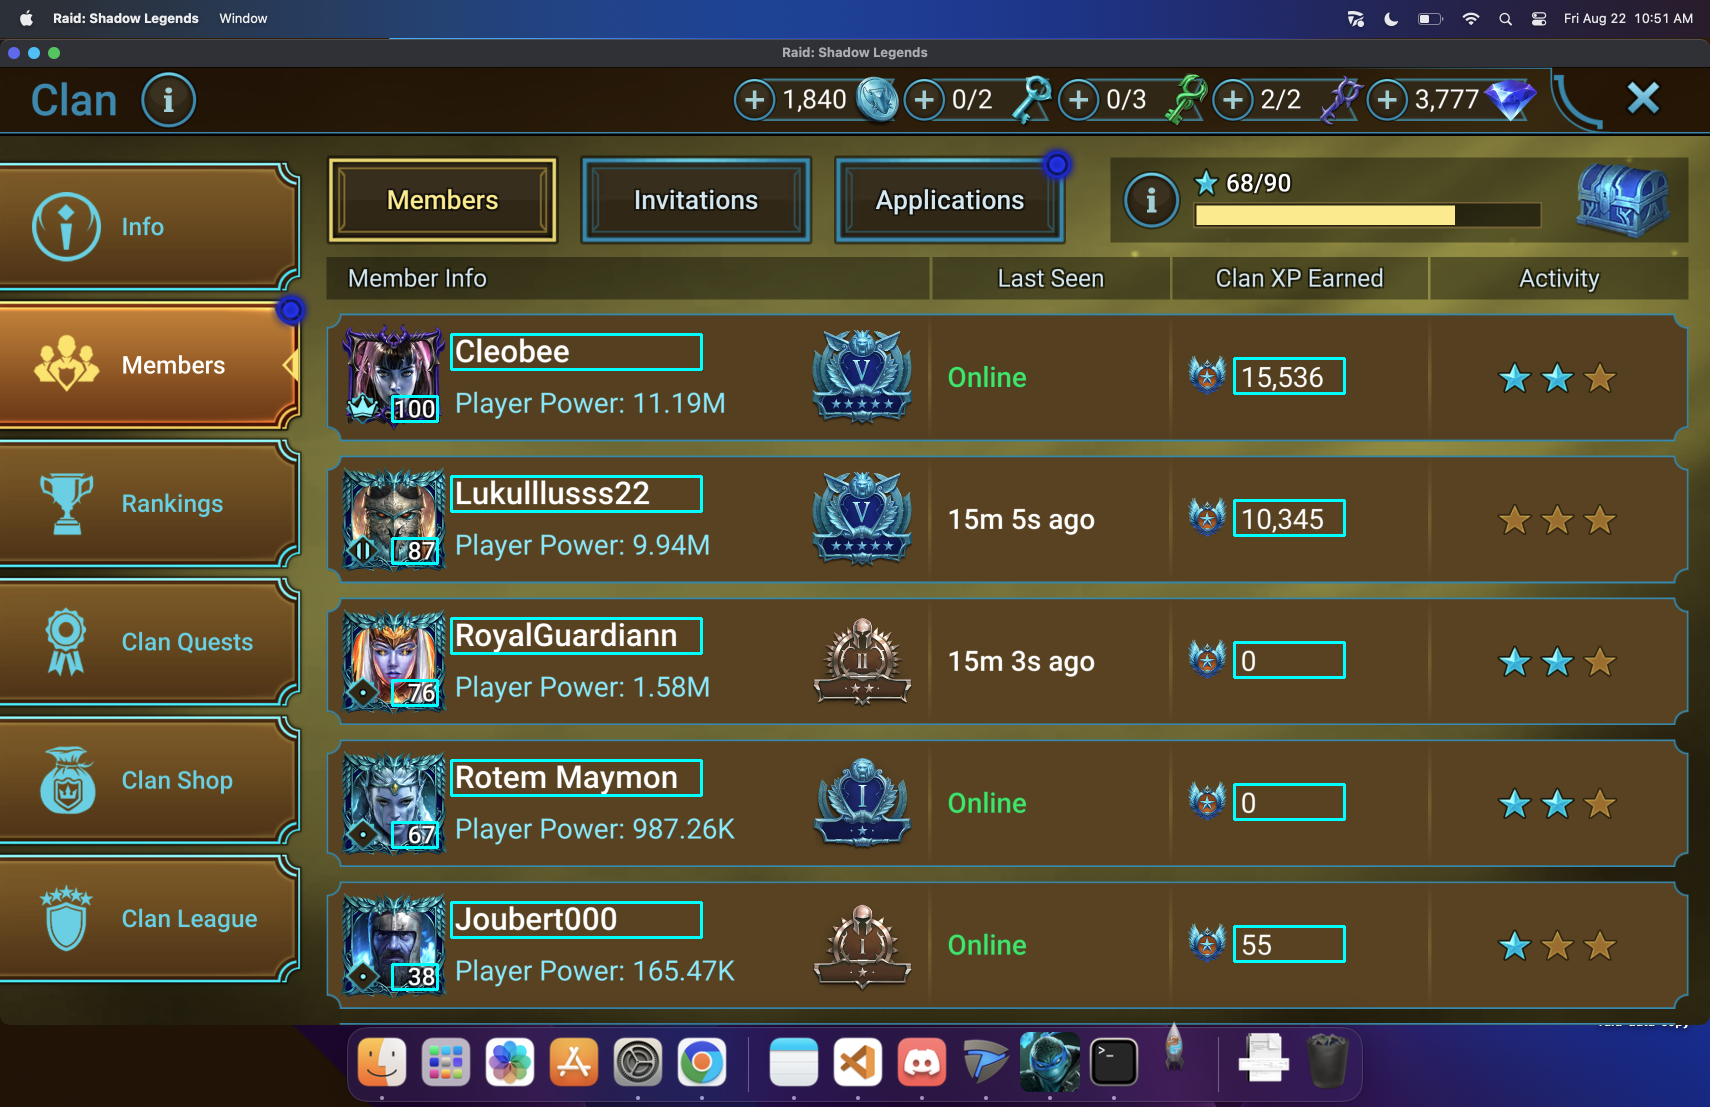
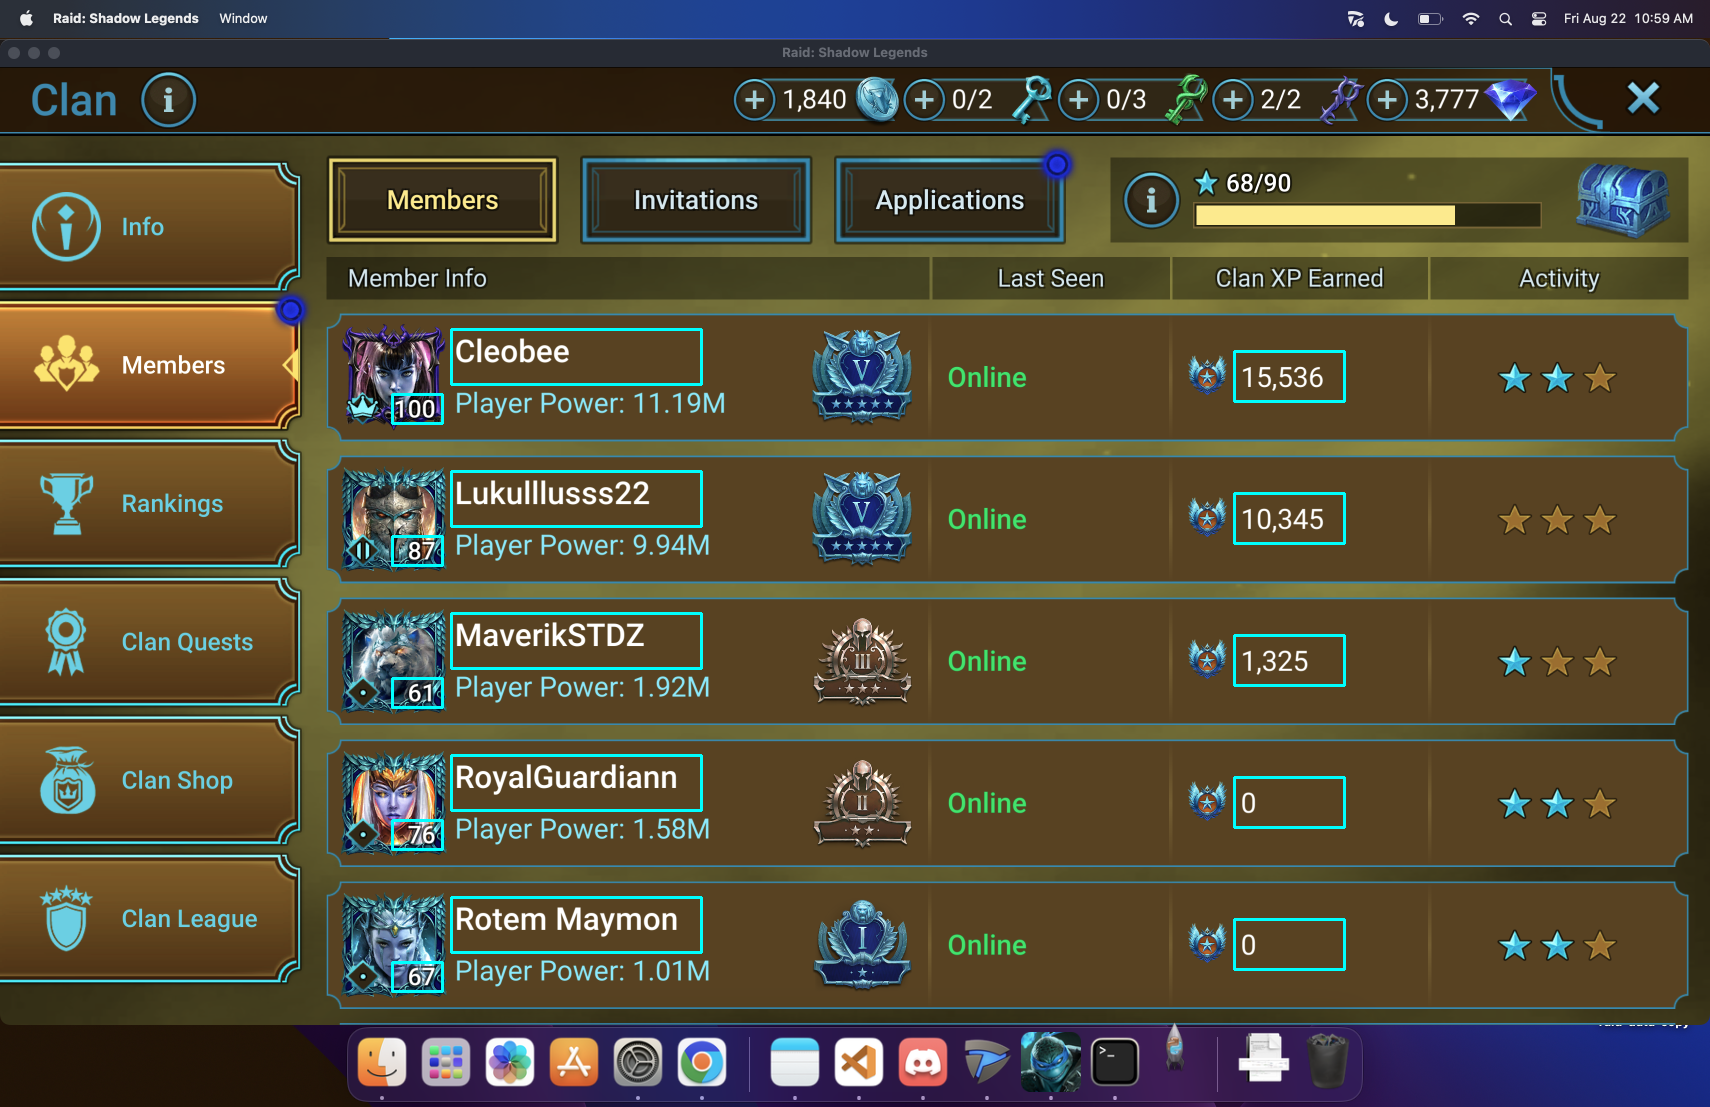
if level is greater than 100, remove the first digit

diff --git a/member_bot.py b/member_bot.py
@@ -47,6 +47,15 @@ def read_single_line_item(upper_left, debug_img_path=None):
             img.save(f"debug/level_field_{y1}_{x1}.png")
             custom_config = r'--oem 3 --psm 8 -c tessedit_char_whitelist=0123456789'
             text = pytesseract.image_to_string(img, config=custom_config).strip()
+
+            # After OCR:
+            try:
+                level_int = int(text)
+                if level_int > 100:
+                    level_int = level_int % 100
+                text = str(level_int)
+            except ValueError:
+                pass  # If OCR fails, keep original text
         else:
             img = Image.fromarray(crop)
             text = pytesseract.image_to_string(img).strip()
@@ -79,9 +88,9 @@ def read_all_line_items(start_upper_left, num_items=5, item_height=141, debug_im
         if debug_img is None:
             debug_img = scr.copy()
         for field, (x_off, y_off, w, h) in {
-            "Player Name": (112, 21, 250, 35),
-            "Level": (53, 83, 45, 25),
-            "Clan XP earned": (895, 45, 110, 35)
+                "Player Name": (112, 16, 250, 55),
+                "Level": (53, 81, 50, 29),
+                "Clan XP earned": (895, 38, 110, 50)
         }.items():
             x1 = upper_left[0] + x_off
             y1 = upper_left[1] + y_off
@@ -130,7 +139,7 @@ if __name__ == "__main__":
         drag_pixels=-709,
         num_items_per_page=5,
         item_height=142,
-        num_pages=7,  # True pages = 7
+        num_pages=8,  # True pages = 8
         debug_img_path="debug/member_bot_allitems.png"
     )
     for idx, item in enumerate(all_items, 1):
